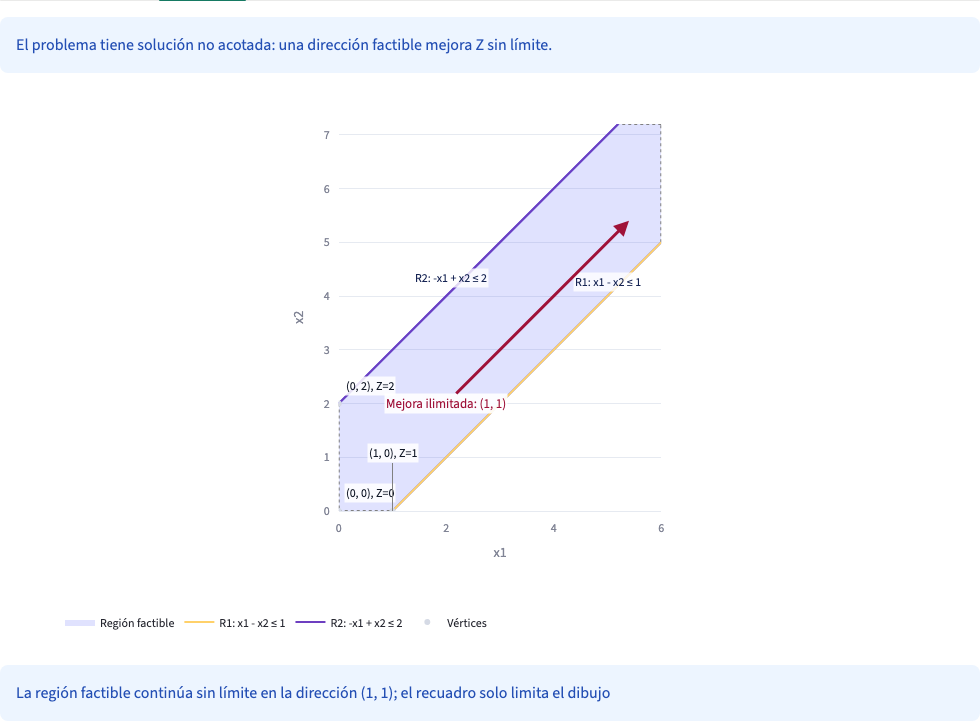
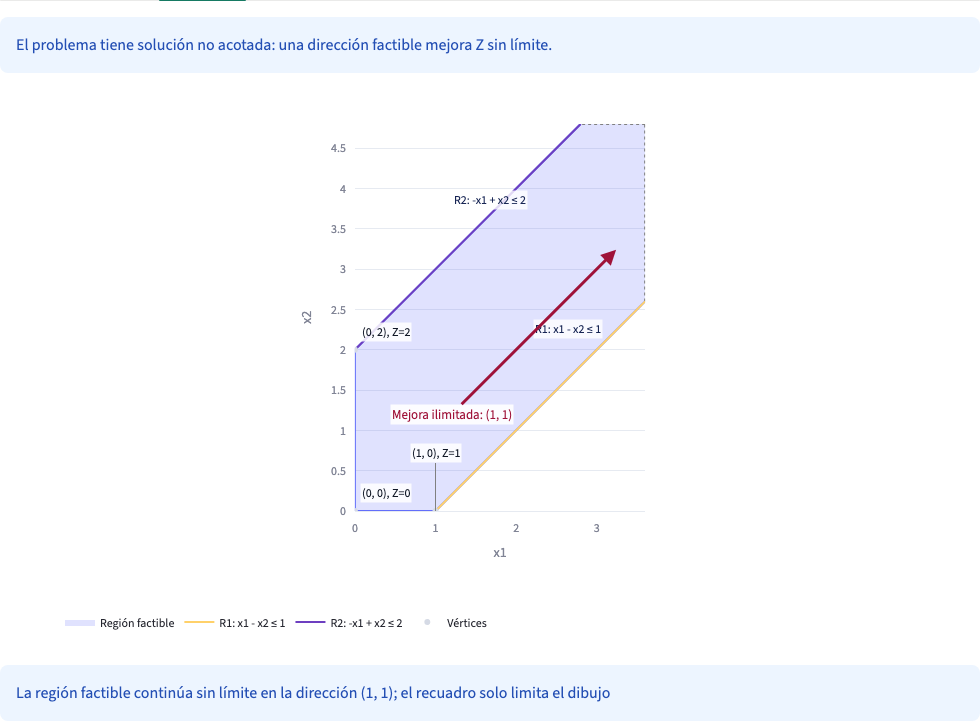
fix: improve unbounded graph drawing
Axis edges are real x >= 0 boundaries and stay solid; only the far box
sides are dotted. The box grows by v + s*d instead of v + 2s*d, and
displaced line labels search upward until they find room.

Changed region(s): [[0.3367, 0.1526, 0.6735, 0.7323], [0.3367, 0.1831, 0.3673, 0.2136], [0.3061, 0.4272, 0.3367, 0.4577]]

diff --git a/app/streamlit_app.py b/app/streamlit_app.py
@@ -399,7 +399,18 @@ def render_steps(problem: LPProblem, solution: Solution | None, step_mode: bool)
 
 
 def space_graph_labels(figure: go.Figure, result: GraphicalResult) -> None:
-    """Separar rótulos en píxeles aproximados sin mover puntos ni cambiar la escala."""
+    """Separar rótulos que se tapan, sin mover puntos ni cambiar la escala.
+
+    Plotly no evita choques entre anotaciones. Se estima un rectángulo por
+    rótulo en píxeles aproximados del área de dibujo (870 × 395, ajustada si los
+    ejes tienen la misma escala): 6,5 px por carácter y 18 px de alto. Primero se
+    colocan las coordenadas de los vértices y después los rótulos de las rectas.
+    Si un rótulo choca con otro ya colocado, se prueban desplazamientos
+    verticales (hacia arriba de 20 en 20 px desde 28 px hasta el borde, y luego
+    hasta 68 px hacia abajo), y el rótulo movido recibe una línea gris hacia su
+    punto. Es solo presentación: si la estimación falla, dos rótulos pueden
+    tocarse, pero ningún resultado cambia.
+    """
     bounds = tuple(map(float, result.drawing_bounds))
     width, height = 870, 395
     ratio = bounds[0] / bounds[1]
@@ -415,14 +426,14 @@ def space_graph_labels(figure: go.Figure, result: GraphicalResult) -> None:
         x = float(label.x) / bounds[0] * width + (label.xshift or 0)
         y = float(label.y) / bounds[1] * height
         text_width = len(label.text) * 6.5
-        left = (
-            x
-            if label.xanchor == "left"
-            else x - text_width
-            if label.xanchor == "right"
-            else x - text_width / 2
-        )
-        for shift in (label.yshift or 0, 28, 48, 68, 88, -28, -48, -68):
+        if label.xanchor == "left":
+            left = x
+        elif label.xanchor == "right":
+            left = x - text_width
+        else:
+            left = x - text_width / 2
+        # Subir de 20 en 20 px hasta el borde superior y, si no cabe, bajar un poco.
+        for shift in (label.yshift or 0, *range(28, int(height), 20), -28, -48, -68):
             bottom = y + shift - (0 if label.yanchor == "bottom" else 9)
             box = (left, bottom, left + text_width, bottom + 18)
             collision = any(
@@ -477,10 +488,8 @@ def render_graph(result: GraphicalResult, problem: LPProblem) -> None:
         )
         if result.bounded is False:
             for first, last in zip(closed, closed[1:], strict=False):
-                on_box = any(
-                    first[i] == last[i] and first[i] in (0, result.drawing_bounds[i])
-                    for i in (0, 1)
-                )
+                # Solo los lados lejanos son del recuadro; los ejes son x ≥ 0, restricciones reales.
+                on_box = any(first[i] == last[i] == result.drawing_bounds[i] for i in (0, 1))
                 figure.add_trace(
                     go.Scatter(
                         x=[float(first[0]), float(last[0])],
@@ -536,22 +545,28 @@ def render_graph(result: GraphicalResult, problem: LPProblem) -> None:
                 ),
             )
             label_positions.append(position)
+            # Desplazamiento vertical en píxeles: arriba de la recta salvo cerca del borde.
+            if objective and result.bounded is False:
+                yshift = 140  # Lejos del vértice óptimo; space_graph_labels deja una guía.
+            elif objective or position[1] > bounds[1] * 5 / 6:
+                yshift = -18
+            else:
+                yshift = 14
+            # Anclar a la izquierda o derecha cerca de los bordes para no salir del gráfico.
+            if position[0] < bounds[0] / 6:
+                xanchor = "left"
+            elif position[0] > bounds[0] * 5 / 6:
+                xanchor = "right"
+            else:
+                xanchor = "center"
             figure.add_annotation(
                 x=position[0],
                 y=position[1],
                 text=label,
                 showarrow=False,
                 yanchor="middle",
-                yshift=140
-                if objective and result.bounded is False
-                else -18
-                if objective or position[1] > bounds[1] * 5 / 6
-                else 14,
-                xanchor="left"
-                if position[0] < bounds[0] / 6
-                else "right"
-                if position[0] > bounds[0] * 5 / 6
-                else "center",
+                yshift=yshift,
+                xanchor=xanchor,
                 font={"color": "#172554", "size": 12},
                 bgcolor="rgba(255,255,255,0.8)",
             )

diff --git a/tests/test_app.py b/tests/test_app.py
@@ -348,6 +348,13 @@ def test_unbounded_graph_notice(app, filename):
             t.get("line", {}).get("color") == "gray" and t["line"].get("dash") == "dot"
             for t in chart["data"]
         )
+        # Solo los lados lejanos son del recuadro; el eje x1 = 0 es una frontera real.
+        width = chart["layout"]["xaxis"]["range"][1]
+        height = chart["layout"]["yaxis"]["range"][1]
+        for trace in chart["data"]:
+            if trace.get("name") == "Borde del recorte":
+                assert trace["x"] == [width, width] or trace["y"] == [height, height]
+        assert any(t.get("name") == "Frontera factible" and t["x"] == [0, 0] for t in chart["data"])
     if filename == "extra_1.json":
         # La isoutilidad se aleja del vértice óptimo y conserva una guía hacia su recta.
         label = next(
@@ -355,6 +362,17 @@ def test_unbounded_graph_notice(app, filename):
         )
         assert label.get("showarrow") and label["ay"] < 0
     assert not app.exception and not app.error
+
+
+@pytest.mark.parametrize("filename", ["ensayo_3.json", "extra_1.json", "ejemplo_5.json"])
+def test_displaced_labels_keep_guide(app, filename):
+    """Un rótulo de recta alejado de su posición siempre encontró hueco y tiene guía."""
+    selectbox(app, "Ejemplo").select(filename).run()
+    button(app, "Cargar ejemplo").click().run()
+    chart = json.loads(app.get("plotly_chart")[0].proto.spec)
+    for label in chart["layout"]["annotations"]:
+        if label["text"].startswith(("R", "Isoutilidad")):
+            assert label.get("showarrow") or abs(label.get("yshift") or 0) <= 20, label["text"]
 
 
 def test_asymmetric_graph_notice(app):

diff --git a/tests/test_graphical.py b/tests/test_graphical.py
@@ -66,9 +66,17 @@ def test_unbounded_objective():
     assert result.status == Status.UNBOUNDED and result.objective_value is None
     assert not result.optimal_points and result.objective_line is None
     assert result.improving_direction == tuple(own.unbounded_direction.values()) == (1, 1)
-    assert result.drawing_bounds == (Fraction(6), Fraction(36, 5))
+    assert result.drawing_bounds == (Fraction(18, 5), Fraction(24, 5))
     assert len(result.improvement_segment) == 2
     assert any(result.improvement_segment[-1][i] == result.drawing_bounds[i] for i in (0, 1))
+
+
+def test_unbounded_box_follows_axis_rays():
+    """La caja avanza s = 5 desde cada vértice por (0, 1) y (1, 0), con margen 6/5."""
+    result = graphical_method(load_problem(PROBLEMS / "extra_1.json"))
+    assert result.bounded is False
+    assert set(result.recession_directions) == {(0, 1), (1, 0)}
+    assert result.drawing_bounds == (Fraction(12), Fraction(48, 5))
 
 
 def test_degenerate_vertex():

diff --git a/src/plapp/graphical.py b/src/plapp/graphical.py
@@ -119,10 +119,10 @@ def graphical_method(problem: LPProblem) -> GraphicalResult:
     }
     directions = _recession(problem.constraints) if vertices else ()
     if directions:
-        # Extender cada vértice en los rayos exactos hace visible la continuación.
+        # Avanzar desde cada vértice una vez el tamaño s del grupo de vértices.
         scale = max(Fraction(1), *(coordinate for point in reference for coordinate in point))
         reference.update(
-            (v[0] + 2 * scale * d[0], v[1] + 2 * scale * d[1]) for v in vertices for d in directions
+            (v[0] + scale * d[0], v[1] + scale * d[1]) for v in vertices for d in directions
         )
     bounds = tuple(max([Fraction(1), *(p[i] for p in reference)]) * Fraction(6, 5) for i in (0, 1))
     symbols = {"<=": "≤", ">=": "≥", "=": "="}

diff --git a/docs/ensayo-sustentacion.md b/docs/ensayo-sustentacion.md
@@ -274,8 +274,8 @@ actual. Entre paréntesis, el número de pruebas que fallan sobre 546.
 - **Resultado real (2 fallan):** `test_example_one_vertices` y
   `test_unbounded_objective` de `tests/test_graphical.py`, que fijan la caja
   exacta de los ejemplos 1 y 5. Vértices, Z y certificados no cambian.
-- **Qué ajustar:** las cajas esperadas, por ejemplo (6, 36/5) del ejemplo 5
-  pasa a (15/2, 9).
+- **Qué ajustar:** las cajas esperadas, por ejemplo (18/5, 24/5) del ejemplo 5
+  pasa a (9/2, 6).
 
 ### Mod. 5: agregar un mensaje con el número de pivotes
 
